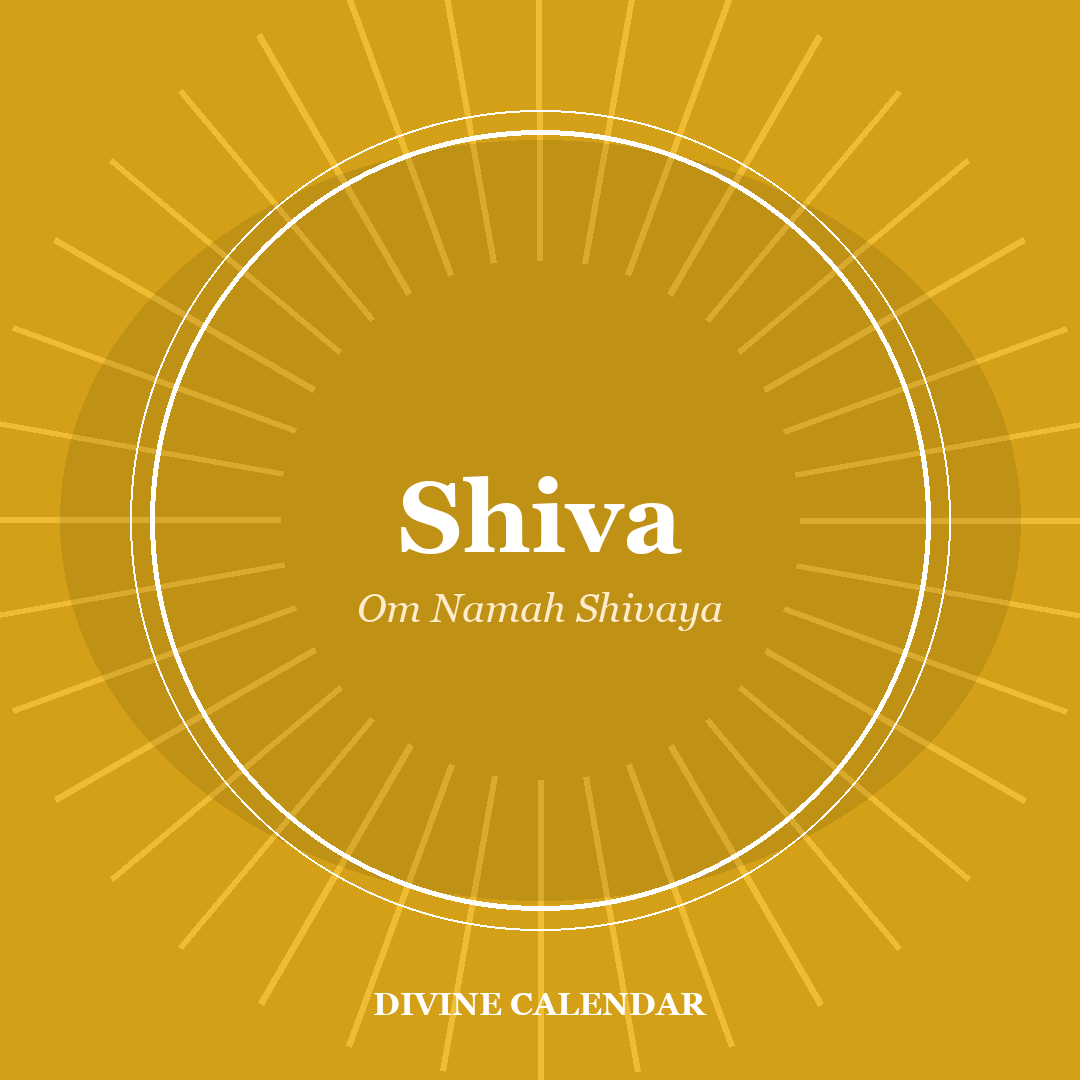
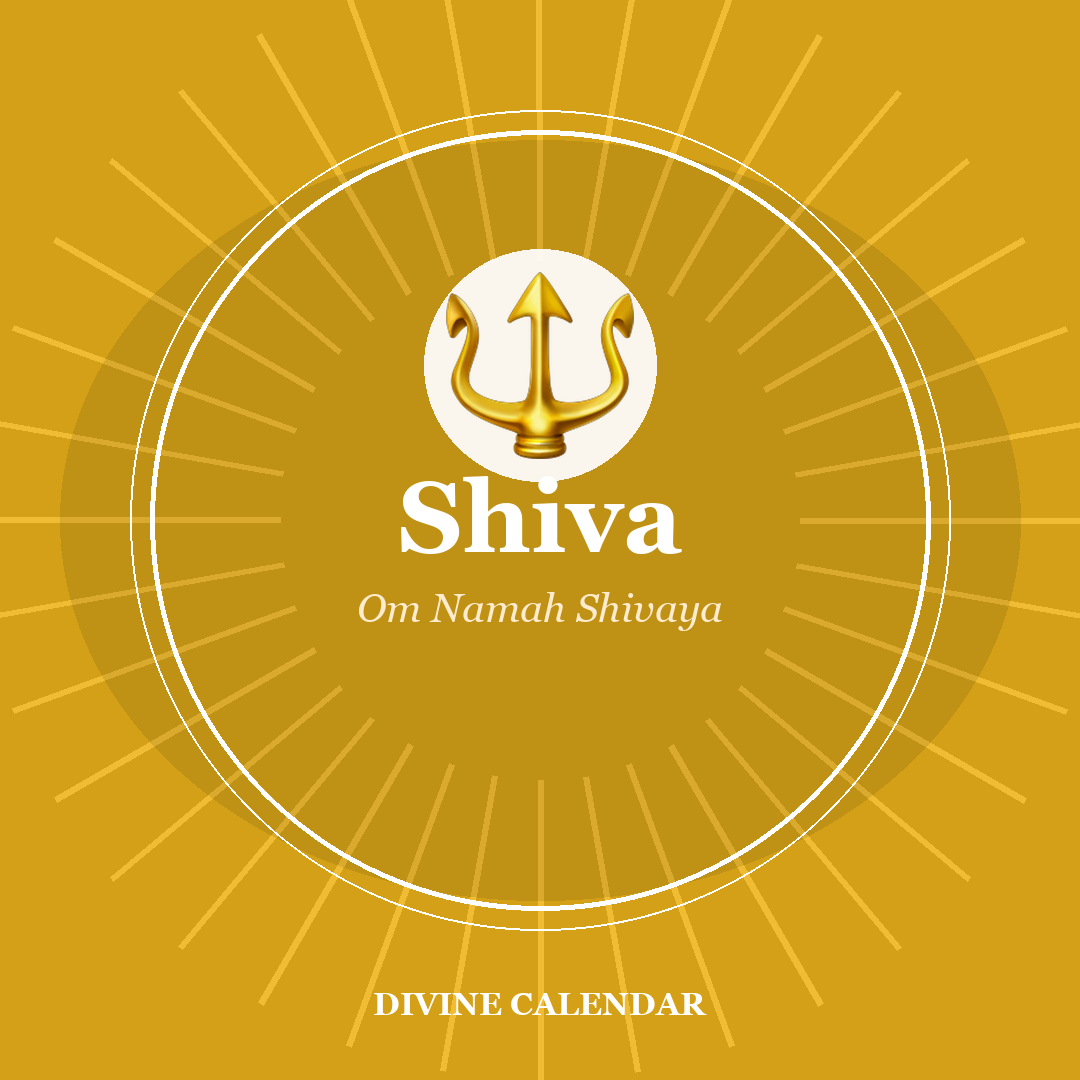
Rebrand to Divine-Reminder, add EAS build config, refresh artwork
- Rename the app to "Divine-Reminder" in app.json, the web tab brand,
  the Android notification channel, and the localized home eyebrow and
  share-sheet strings (en, ta, te, kn, hi)
- Add eas.json (development/preview/production) and EAS project id,
  owner, iOS bundleIdentifier and Android package in app.json, plus
  Android audio/foreground-service permissions
- Regenerate deity share cards with a traditional emblem medallion per
  deity and refresh the app icon, splash, and favicon images

Changed region(s): [[0.3667, 0.2139, 0.6111, 0.4583]]

diff --git a/src/lib/i18n/translations.ts b/src/lib/i18n/translations.ts
@@ -26,7 +26,7 @@ const EN = {
   'onboarding.save': '❤ Save my deities',
   'onboarding.saving': 'Saving…',
 
-  'home.eyebrow': 'DIVINE CALENDAR',
+  'home.eyebrow': 'DIVINE-REMINDER',
   'home.title': 'Your Sacred Days',
   'home.subtitle': 'Personalized to the deities you follow',
   'home.manageDeities': '❤ Manage my deities →',
@@ -103,7 +103,7 @@ const EN = {
   'calendar.title': 'Calendar',
   'calendar.subtitle': 'All events across every deity · festivals, vrathams & monthly observances',
 
-  'share.sentWith': '🪔 Sent with Divine Calendar',
+  'share.sentWith': '🪔 Sent with Divine-Reminder',
   'share.getTheApp': 'Get the app: {{url}}',
 } as const;
 
@@ -126,7 +126,7 @@ const TA: Record<TranslationKey, string> = {
   'onboarding.save': '❤ எனது தெய்வங்களைச் சேமி',
   'onboarding.saving': 'சேமிக்கிறது…',
 
-  'home.eyebrow': 'திவ்ய நாட்காட்டி',
+  'home.eyebrow': 'திவ்ய நினைவூட்டி',
   'home.title': 'உங்கள் புனித நாட்கள்',
   'home.subtitle': 'நீங்கள் பின்பற்றும் தெய்வங்களுக்கு ஏற்ப',
   'home.manageDeities': '❤ எனது தெய்வங்களை நிர்வகி →',
@@ -203,7 +203,7 @@ const TA: Record<TranslationKey, string> = {
   'calendar.title': 'நாட்காட்டி',
   'calendar.subtitle': 'ஒவ்வொரு தெய்வத்தின் அனைத்து நிகழ்வுகளும் · திருவிழாக்கள், விரதங்கள் & மாதாந்திர நாட்கள்',
 
-  'share.sentWith': '🪔 திவ்ய நாட்காட்டி மூலம் அனுப்பப்பட்டது',
+  'share.sentWith': '🪔 திவ்ய நினைவூட்டி மூலம் அனுப்பப்பட்டது',
   'share.getTheApp': 'ஆப்ஸைப் பெற: {{url}}',
 };
 
@@ -226,7 +226,7 @@ const TE: Record<TranslationKey, string> = {
   'onboarding.save': '❤ నా దేవతలను భద్రపరచు',
   'onboarding.saving': 'భద్రపరుస్తోంది…',
 
-  'home.eyebrow': 'దివ్య క్యాలెండర్',
+  'home.eyebrow': 'దివ్య రిమైండర్',
   'home.title': 'మీ పవిత్ర దినాలు',
   'home.subtitle': 'మీరు అనుసరించే దేవతలకు అనుగుణంగా',
   'home.manageDeities': '❤ నా దేవతలను నిర్వహించు →',
@@ -303,7 +303,7 @@ const TE: Record<TranslationKey, string> = {
   'calendar.title': 'క్యాలెండర్',
   'calendar.subtitle': 'ప్రతి దేవత యొక్క అన్ని వేడుకలు · పండుగలు, వ్రతాలు & నెలవారీ దినాలు',
 
-  'share.sentWith': '🪔 దివ్య క్యాలెండర్ ద్వారా పంపబడింది',
+  'share.sentWith': '🪔 దివ్య రిమైండర్ ద్వారా పంపబడింది',
   'share.getTheApp': 'యాప్ను పొందండి: {{url}}',
 };
 
@@ -326,7 +326,7 @@ const KN: Record<TranslationKey, string> = {
   'onboarding.save': '❤ ನನ್ನ ದೇವರುಗಳನ್ನು ಉಳಿಸಿ',
   'onboarding.saving': 'ಉಳಿಸಲಾಗುತ್ತಿದೆ…',
 
-  'home.eyebrow': 'ದಿವ್ಯ ಕ್ಯಾಲೆಂಡರ್',
+  'home.eyebrow': 'ದಿವ್ಯ ರಿಮೈಂಡರ್',
   'home.title': 'ನಿಮ್ಮ ಪವಿತ್ರ ದಿನಗಳು',
   'home.subtitle': 'ನೀವು ಅನುಸರಿಸುವ ದೇವರುಗಳಿಗೆ ಅನುಗುಣವಾಗಿ',
   'home.manageDeities': '❤ ನನ್ನ ದೇವರುಗಳನ್ನು ನಿರ್ವಹಿಸಿ →',
@@ -403,7 +403,7 @@ const KN: Record<TranslationKey, string> = {
   'calendar.title': 'ಕ್ಯಾಲೆಂಡರ್',
   'calendar.subtitle': 'ಪ್ರತಿ ದೇವರ ಎಲ್ಲಾ ಕಾರ್ಯಕ್ರಮಗಳು · ಹಬ್ಬಗಳು, ವ್ರತಗಳು & ಮಾಸಿಕ ದಿನಗಳು',
 
-  'share.sentWith': '🪔 ದಿವ್ಯ ಕ್ಯಾಲೆಂಡರ್ ಮೂಲಕ ಕಳುಹಿಸಲಾಗಿದೆ',
+  'share.sentWith': '🪔 ದಿವ್ಯ ರಿಮೈಂಡರ್ ಮೂಲಕ ಕಳುಹಿಸಲಾಗಿದೆ',
   'share.getTheApp': 'ಆ್ಯಪ್ ಪಡೆಯಿರಿ: {{url}}',
 };
 
@@ -426,7 +426,7 @@ const HI: Record<TranslationKey, string> = {
   'onboarding.save': '❤ मेरे देवता सहेजें',
   'onboarding.saving': 'सहेजा जा रहा है…',
 
-  'home.eyebrow': 'दिव्य कैलेंडर',
+  'home.eyebrow': 'दिव्य रिमाइंडर',
   'home.title': 'आपके पवित्र दिन',
   'home.subtitle': 'आपके अनुसरण किए गए देवताओं के अनुसार',
   'home.manageDeities': '❤ मेरे देवता प्रबंधित करें →',
@@ -503,7 +503,7 @@ const HI: Record<TranslationKey, string> = {
   'calendar.title': 'कैलेंडर',
   'calendar.subtitle': 'हर देवता के सभी आयोजन · त्योहार, व्रत और मासिक दिन',
 
-  'share.sentWith': '🪔 दिव्य कैलेंडर के साथ भेजा गया',
+  'share.sentWith': '🪔 दिव्य रिमाइंडर के साथ भेजा गया',
   'share.getTheApp': 'ऐप पाएं: {{url}}',
 };
 

diff --git a/src/lib/deity-cards.ts b/src/lib/deity-cards.ts
@@ -1,13 +1,16 @@
 import { Asset } from 'expo-asset';
 
 // One shareable branded card per deity (see assets/deity-cards/, generated
-// as plain original graphics - each deity's accent color, name, and a
-// well-known mantra/greeting). Not a photograph: this app has no real deity
-// photography of its own and no reliable way to verify the license or
-// accuracy of one found online, so a card in the app's own style is the
-// honest alternative. Used as the default share image so WhatsApp/
-// Instagram/Facebook always have something ready before someone attaches
-// their own photo or video.
+// as plain original graphics - each deity's accent color, name, a
+// well-known mantra/greeting, and a medallion with that deity's traditional
+// emblem: Murugan's peacock, Vishnu's lotus, Shiva's trident, Amman's
+// hibiscus, Ganesha's elephant, Ayyappan's bow and arrow). Not a photograph
+// or a figure of the deity: this app has no real deity photography of its
+// own and no reliable way to verify the license or accuracy of a figurative
+// image found online, so a recognizable attribute-symbol in the app's own
+// style is the honest, respectful alternative. Used as the default share
+// image so WhatsApp/Instagram/Facebook always have something ready before
+// someone attaches their own photo or video.
 const DEITY_CARD_ASSETS: Record<string, number> = {
   murugan: require('@/assets/deity-cards/murugan.png'),
   vishnu: require('@/assets/deity-cards/vishnu.png'),

diff --git a/src/lib/app-info.ts b/src/lib/app-info.ts
@@ -2,6 +2,6 @@
 // install it from (App Store / Play Store / TestFlight / an EAS Update
 // link) - e.g. 'https://apps.apple.com/app/id...'. Left null until then:
 // shareMessage() (see lib/notifications.ts) still adds the branded
-// "Sent with Divine Calendar" line either way, it just skips the install
+// "Sent with Divine-Reminder" line either way, it just skips the install
 // line rather than link to somewhere that doesn't exist yet.
 export const APP_INSTALL_URL: string | null = null;

diff --git a/src/app/(tabs)/_layout.web.tsx b/src/app/(tabs)/_layout.web.tsx
@@ -50,7 +50,7 @@ export function CustomTabList(props: TabListProps) {
     <View {...props} style={styles.tabListContainer}>
       <ThemedView type="backgroundElement" style={styles.innerContainer}>
         <ThemedText type="smallBold" themeColor="primary" style={styles.brandText}>
-          🕉 Divine Calendar
+          🔔 Divine-Reminder
         </ThemedText>
 
         {props.children}

diff --git a/src/lib/notifications.ts b/src/lib/notifications.ts
@@ -293,7 +293,7 @@ export async function setTopicLeadDays(deityId: string, category: string, days: 
 async function ensureChannel(): Promise<void> {
   if (Platform.OS !== 'android') return;
   await Notifications.setNotificationChannelAsync(CHANNEL_ID, {
-    name: 'Divine Calendar reminders',
+    name: 'Divine-Reminder alerts',
     importance: Notifications.AndroidImportance.DEFAULT,
   });
 }
